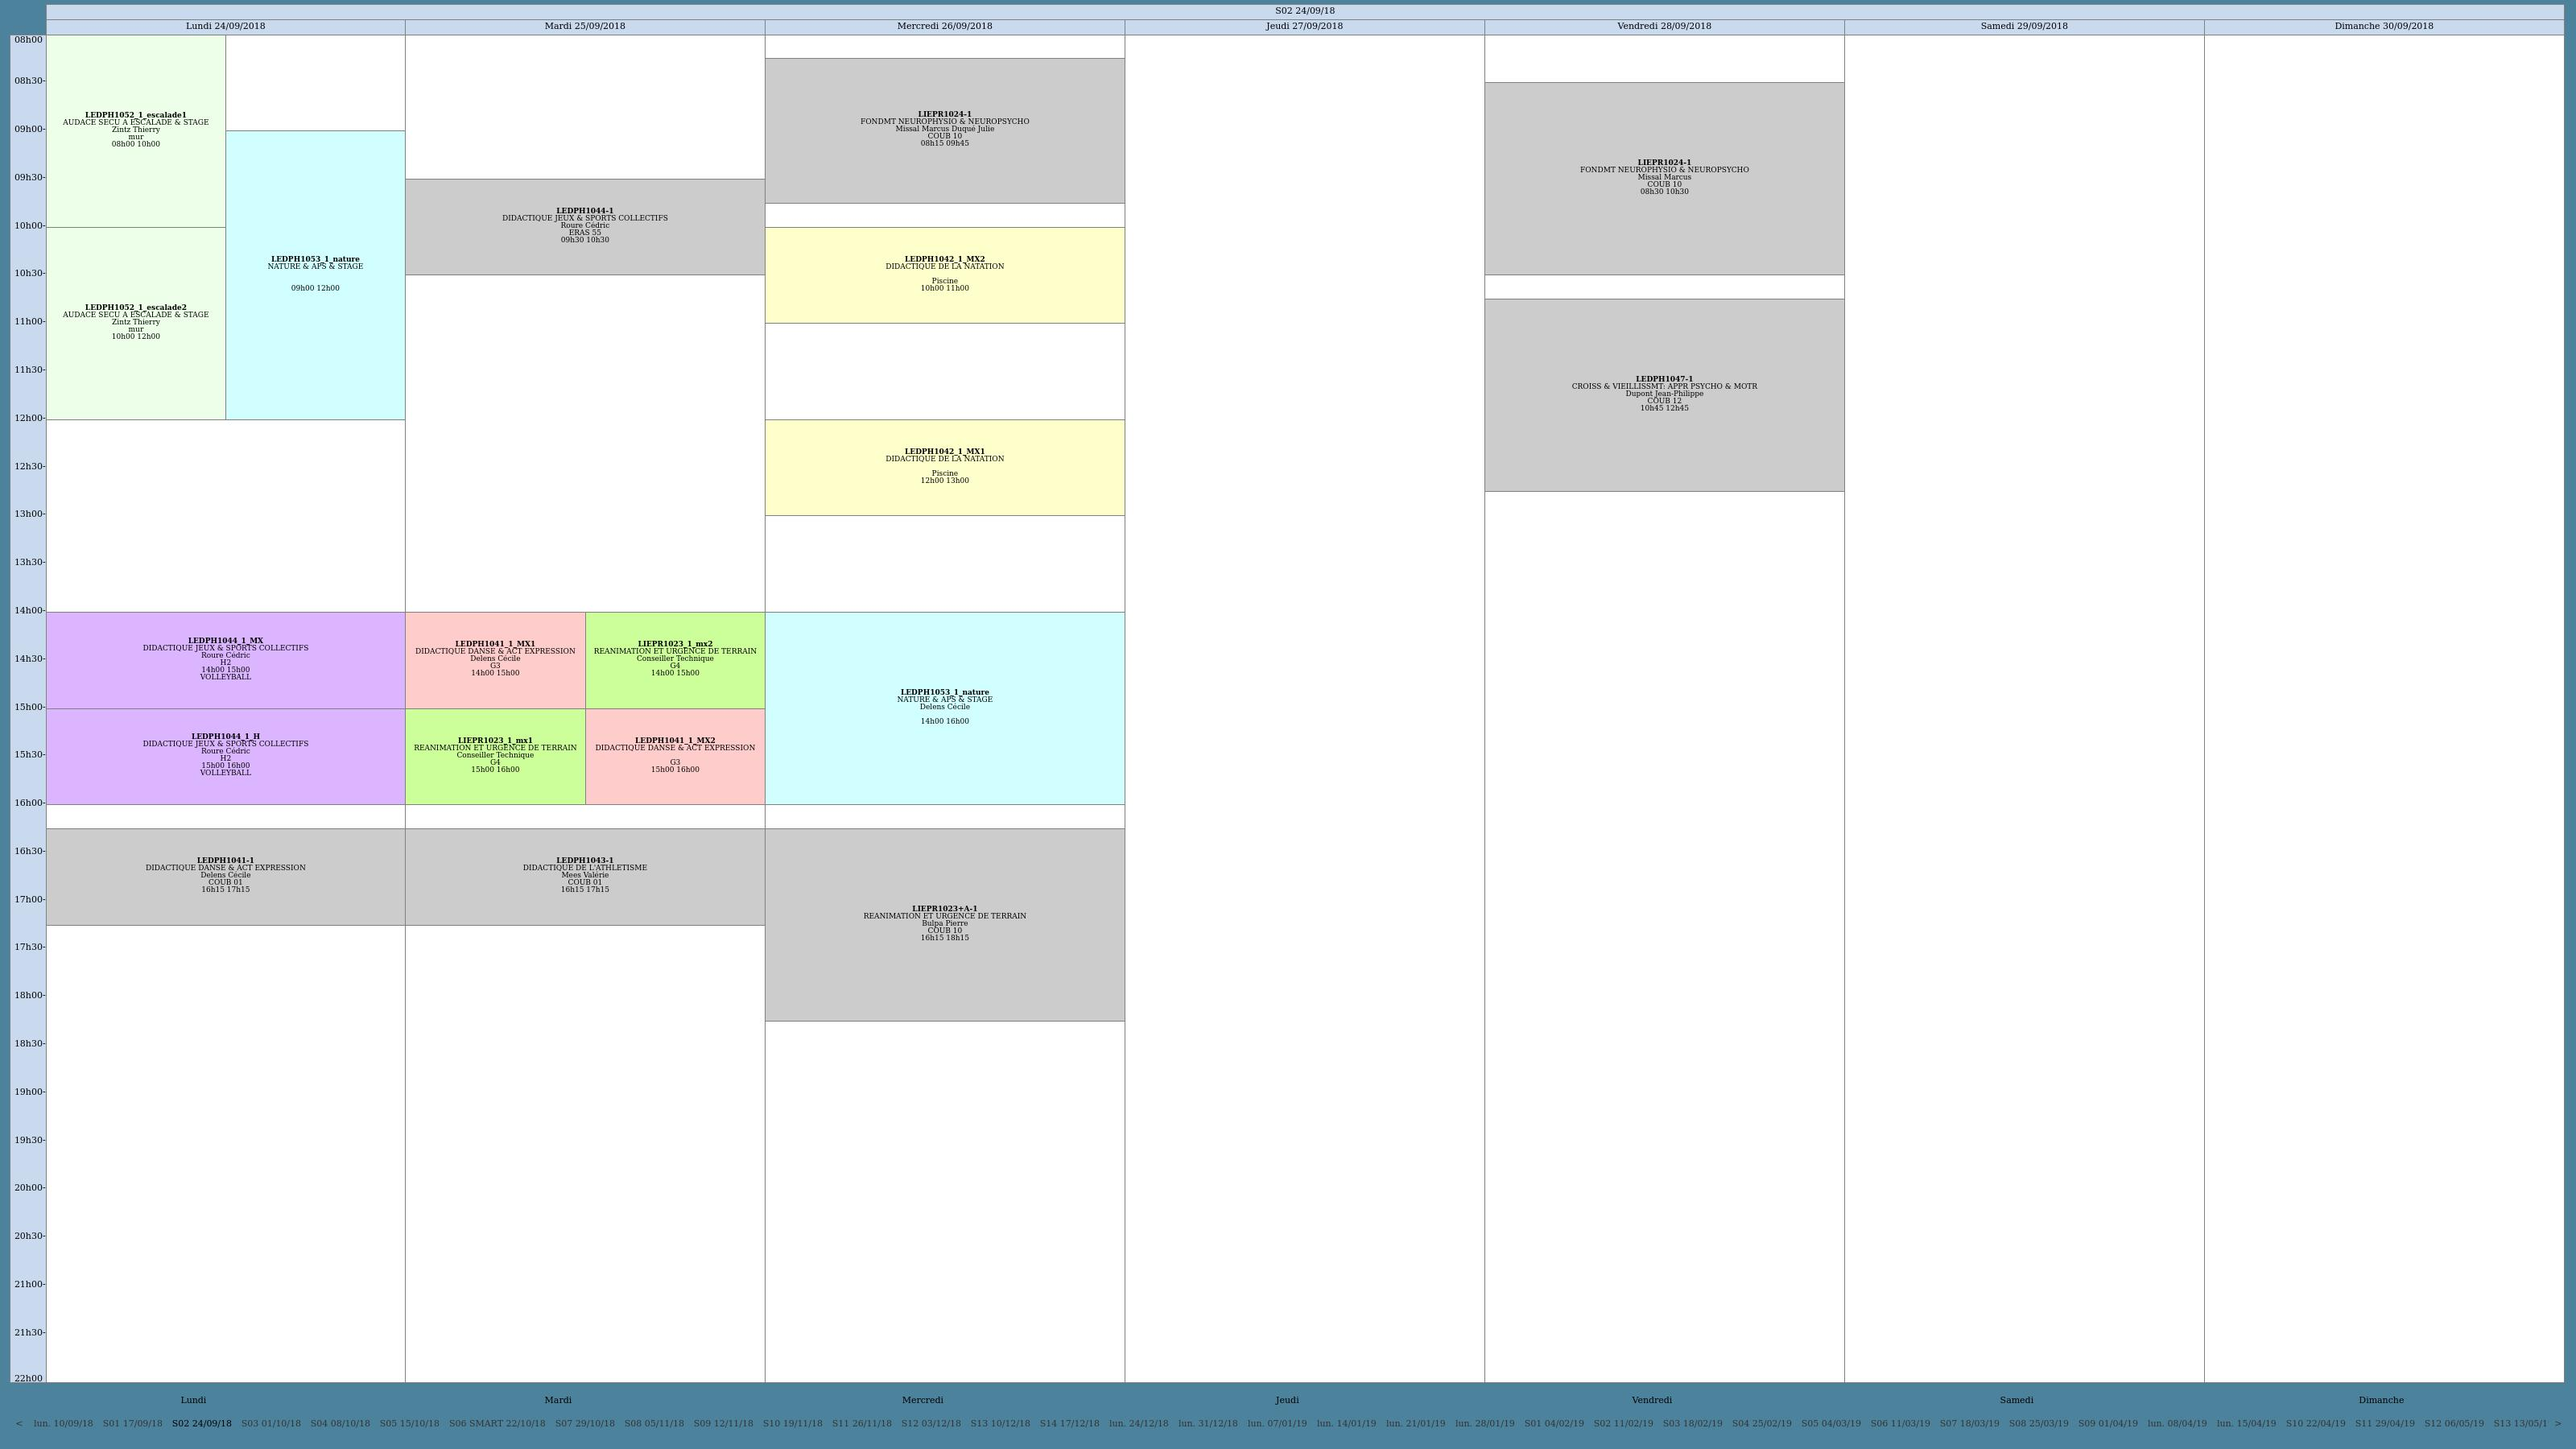
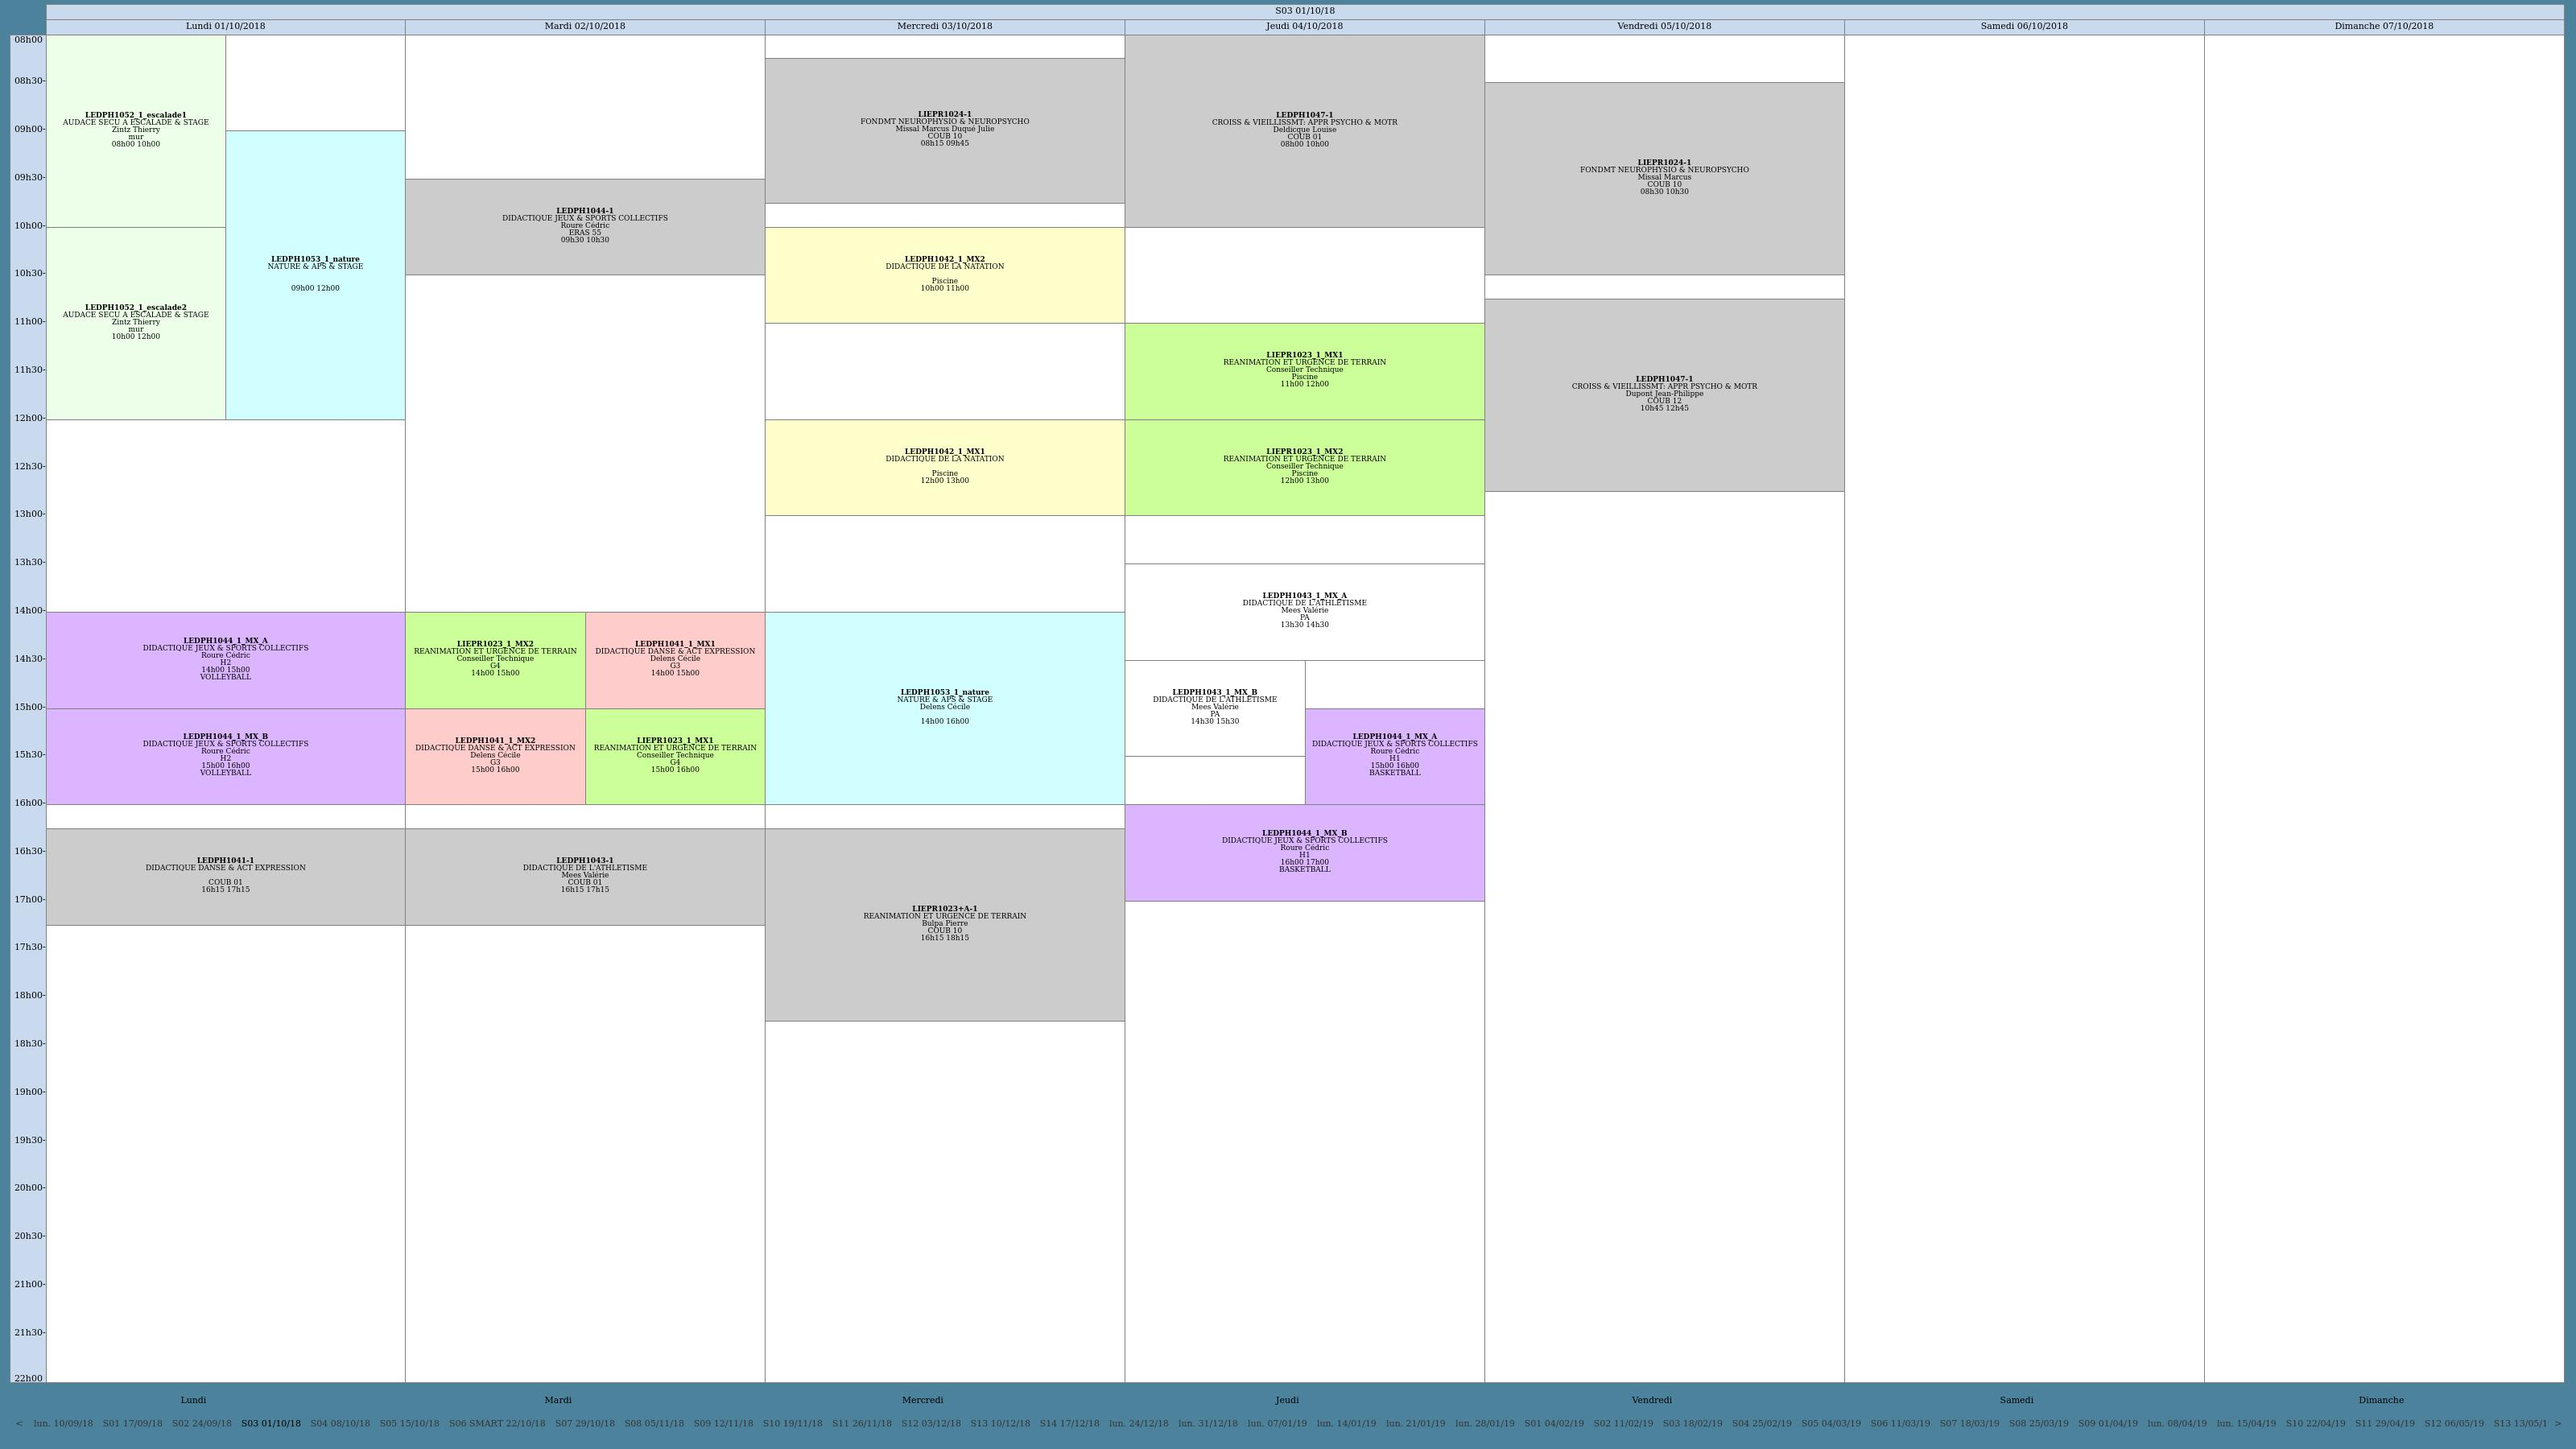
parsing avec date

diff --git a/hors.js b/hors.js
@@ -9,10 +9,9 @@ var horseman = new Horseman({
 });
 var resp = {}
 var agenda
-var firstDay = "http://horaire.uclouvain.be/direct/index.jsp?displayConfName=webEtudiant&showTree=false&showOptions=false&login=etudiant&password=student&projectId=2&code=EDPH13BA"
+var firstDay = "http://horaire.uclouvain.be/direct/index.jsp?displayConfName=webEtudiant&showTree=false&showOptions=false&login=etudiant&password=student&projectId=2&code=EDPH13BA&weeks=0"
 var firstDate = 0
 var daysPixel = []
-var url = "http://horaire.uclouvain.be/direct/index.jsp?displayConfName=webEtudiant&showTree=false&showOptions=false&login=etudiant&password=student&projectId=2&code=EDPH13BA&weeks=2"
 
 horseman
   .viewport(3200,1800)
@@ -22,12 +21,10 @@ horseman
   .screenshot("image.jpg")
   .text("#2")
   .then(function(text) {
-    firstDate = text.split(".")[1].trim()
+    firstDate = text.split(" ")[1].trim()
     firstDate = moment(firstDate, "DD/MM/YYYY").unix();
     resp["firstDateInBrut"] =text
     resp["firstDateFormatted"] =firstDate
-
-    console.log(firstDate)
     fs.writeFile('FirstDay.json',JSON.stringify(resp), function (err) {
       if (err) throw err;
       console.log('saved to FirstDay.json');
@@ -40,45 +37,60 @@ var horseman = new Horseman({
   webSecurity: false,
   loadImages: false,
 });
-var difference = Math.abs(firstDate - moment().unix());
+
+setTimeout(function(){
+var difference = Math.floor(parseFloat(Math.abs(firstDate - moment().unix())/(60*60*24*7)));
+console.log("---------------------------")
+console.log("---------------------------")
+console.log("---------------------------")
+console.log("---------------------------")
+
+console.log(difference)
+console.log("---------------------------")
+console.log("---------------------------")
+console.log("---------------------------")
+console.log("---------------------------")
+var url = "http://horaire.uclouvain.be/direct/index.jsp?displayConfName=webEtudiant&showTree=false&showOptions=false&login=etudiant&password=student&projectId=2&code=EDPH13BA&weeks="+difference
 
 
-horseman
-  .viewport(3200,1800)
-  .userAgent('Mozilla/5.0 (Windows NT 6.1; WOW64; rv:27.0) Gecko/20100101 Firefox/27.0')
-  .open(url)
-  .wait(3000)
-  .screenshot("url.jpg")
-  .evaluate(function getDivs(){
-    var $divs = $(".event");
-    var daysInWeek = ["lundi",'mardi',"mercredi","jeudi","vendredi","samedi","dimanche"]
-    return $divs.map(function (index, $div) {
-      // let el = $("#div"+index)
-      $el = $("#inner"+index)
-      label = $el.attr("aria-label").split("null");
-      positionleft = Math.floor($el.offset().left)
-      positionColumn = parseInt((positionleft / 3200 * 100) * 0.07)
+  horseman
+    .viewport(3200,1800)
+    .userAgent('Mozilla/5.0 (Windows NT 6.1; WOW64; rv:27.0) Gecko/20100101 Firefox/27.0')
+    .open(url)
+    .wait(3000)
+    .screenshot("url.jpg")
+    .evaluate(function getDivs(){
+      var $divs = $(".event");
+      var daysInWeek = ["lundi",'mardi',"mercredi","jeudi","vendredi","samedi","dimanche"]
+      return $divs.map(function (index, $div) {
+        // let el = $("#div"+index)
+        $el = $("#inner"+index)
+        label = $el.attr("aria-label").split("null");
+        positionleft = Math.floor($el.offset().left)
+        positionColumn = parseInt((positionleft / 3200 * 100) * 0.07)
 
-      tmp = {
-        id: index,
-        column: positionColumn,
-        jour:daysInWeek[positionColumn],
-        code: label[0].trim(),
-        titre: label[1].trim(),
-        professeur: label[2].trim(),
-        local: label[3].trim(),
-        heure: label[4].trim()
+        tmp = {
+          id: index,
+          column: positionColumn,
+          jour:daysInWeek[positionColumn],
+          code: label[0].trim(),
+          titre: label[1].trim(),
+          professeur: label[2].trim(),
+          local: label[3].trim(),
+          heure: label[4].trim()
+        }
+        return tmp
+      }).get();
+    })
+    .then(async function (divs){
+      // this uses async/await, but you can use some recursive function or some other async looping logic
+      for(var div of divs) {
+        // use the .open() method with the gathered href'<</s>
+
+        console.log(div)
+        console.log("----------------------------------")
       }
-      return tmp
-    }).get();
-  })
-  .then(async function (divs){
-    // this uses async/await, but you can use some recursive function or some other async looping logic
-    for(var div of divs) {
-      // use the .open() method with the gathered href'<</s>
+    })
+    .close();
 
-      console.log(div)
-      console.log("----------------------------------")
-    }
-  })
-  .close();
+},3000)
